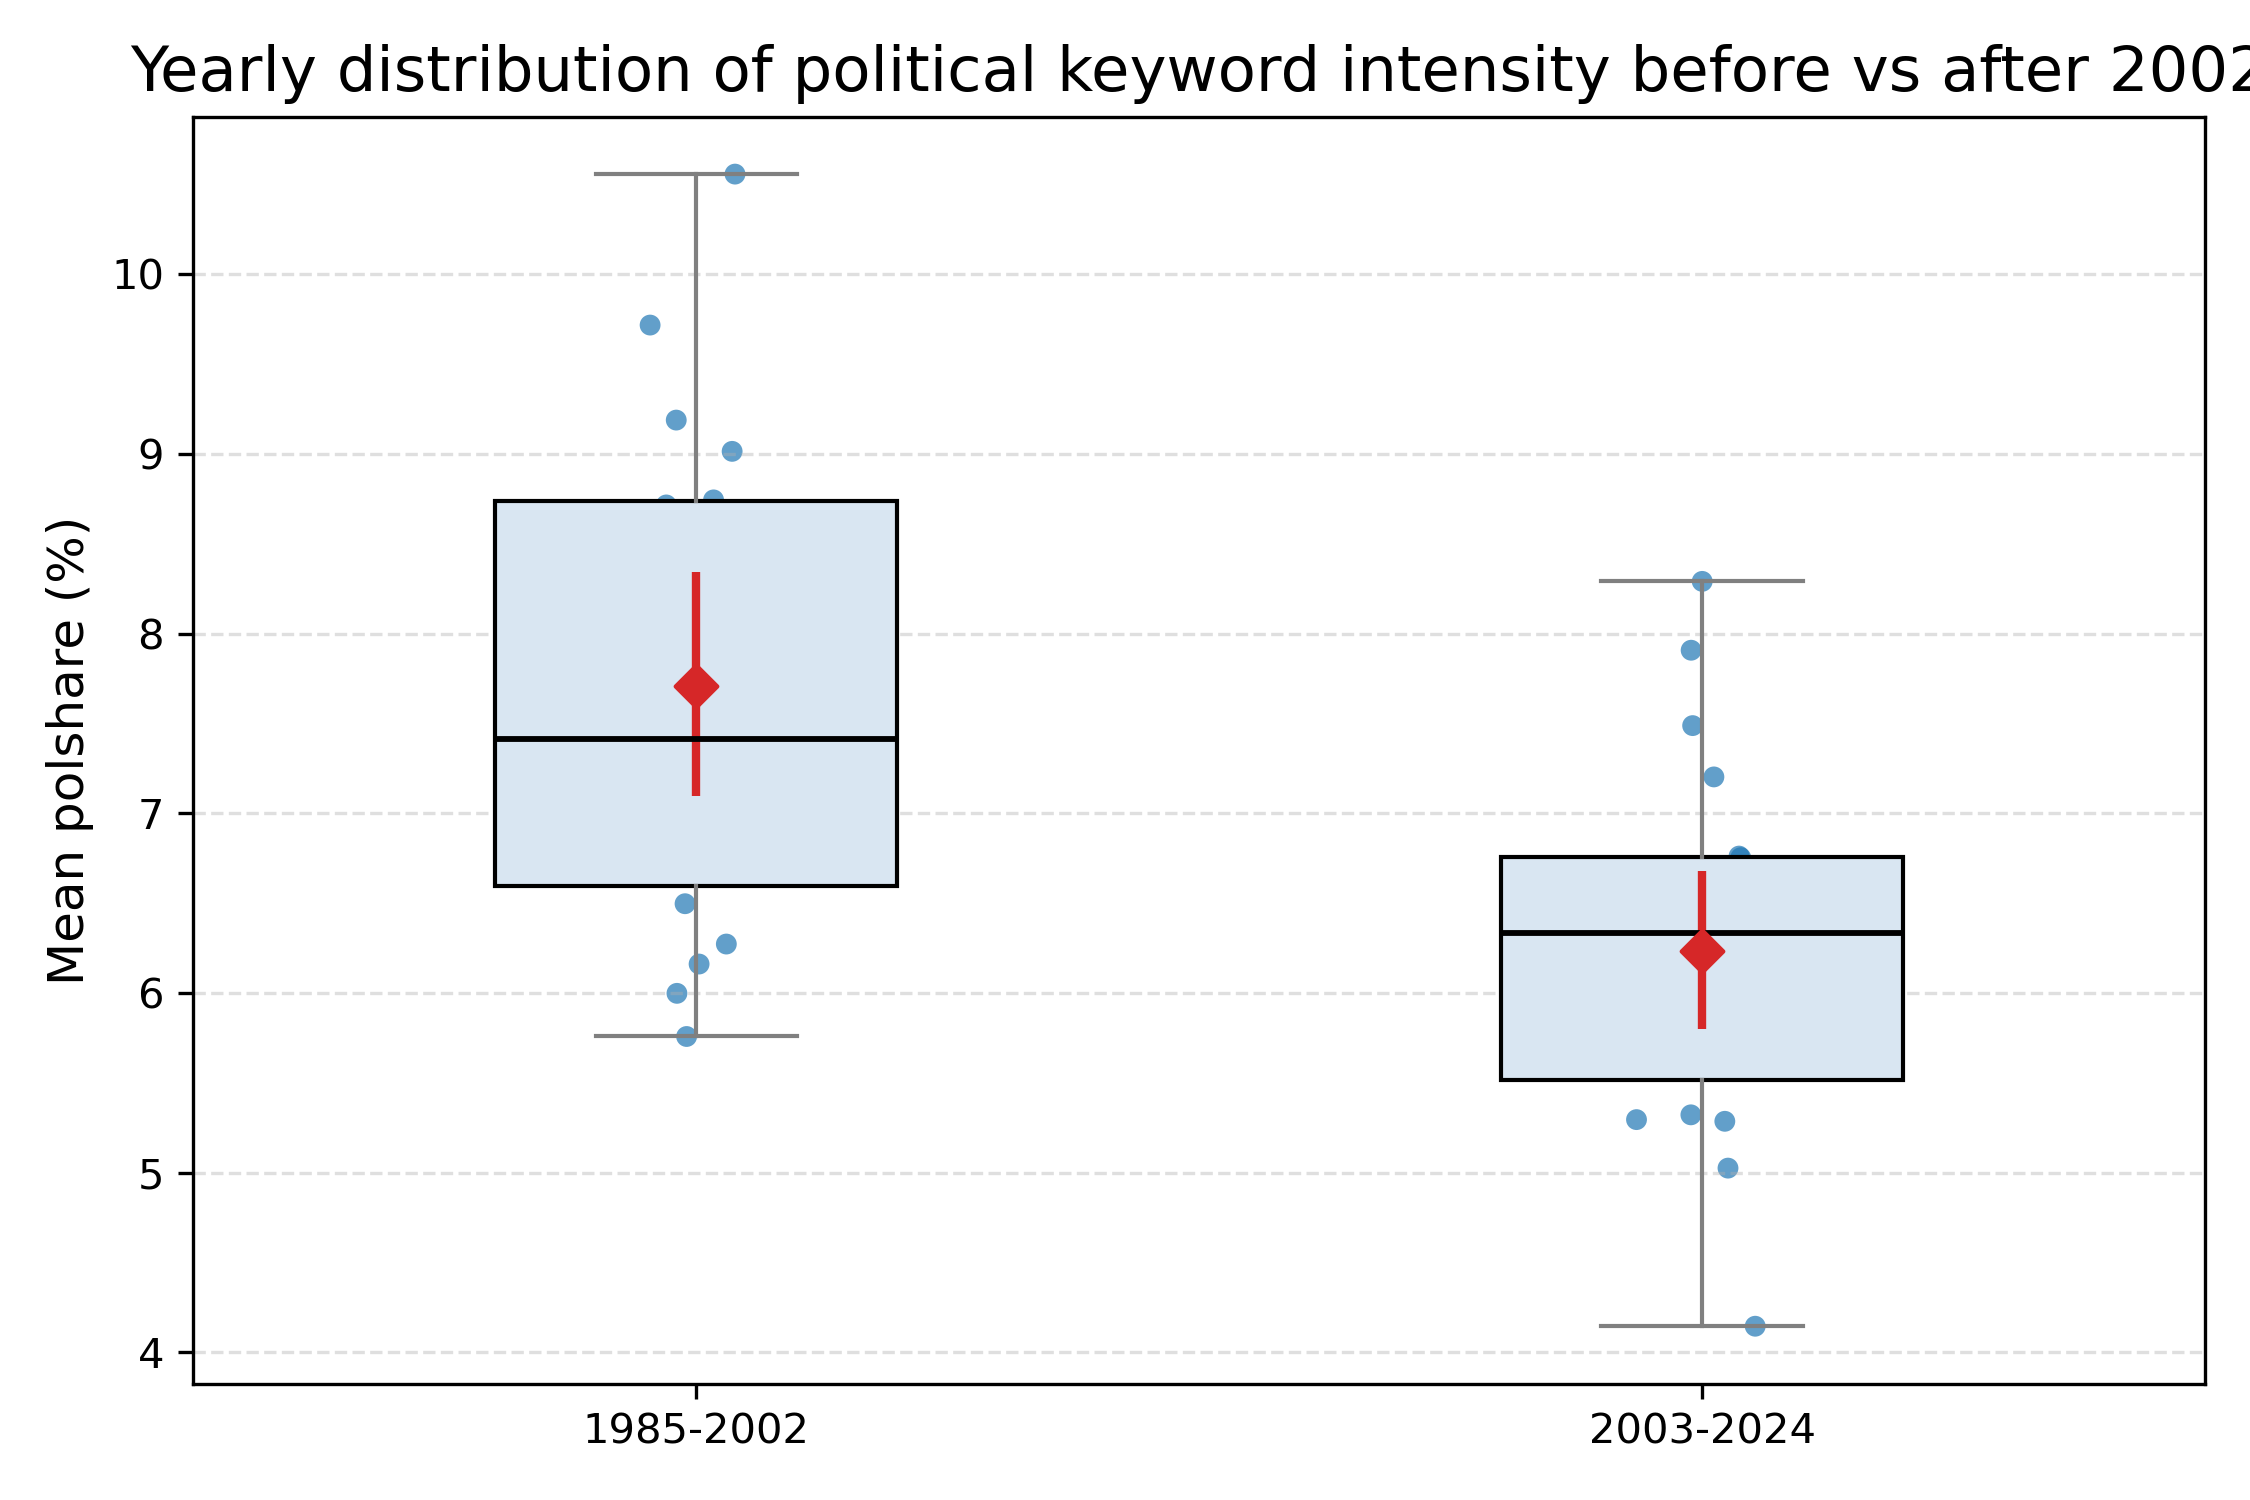
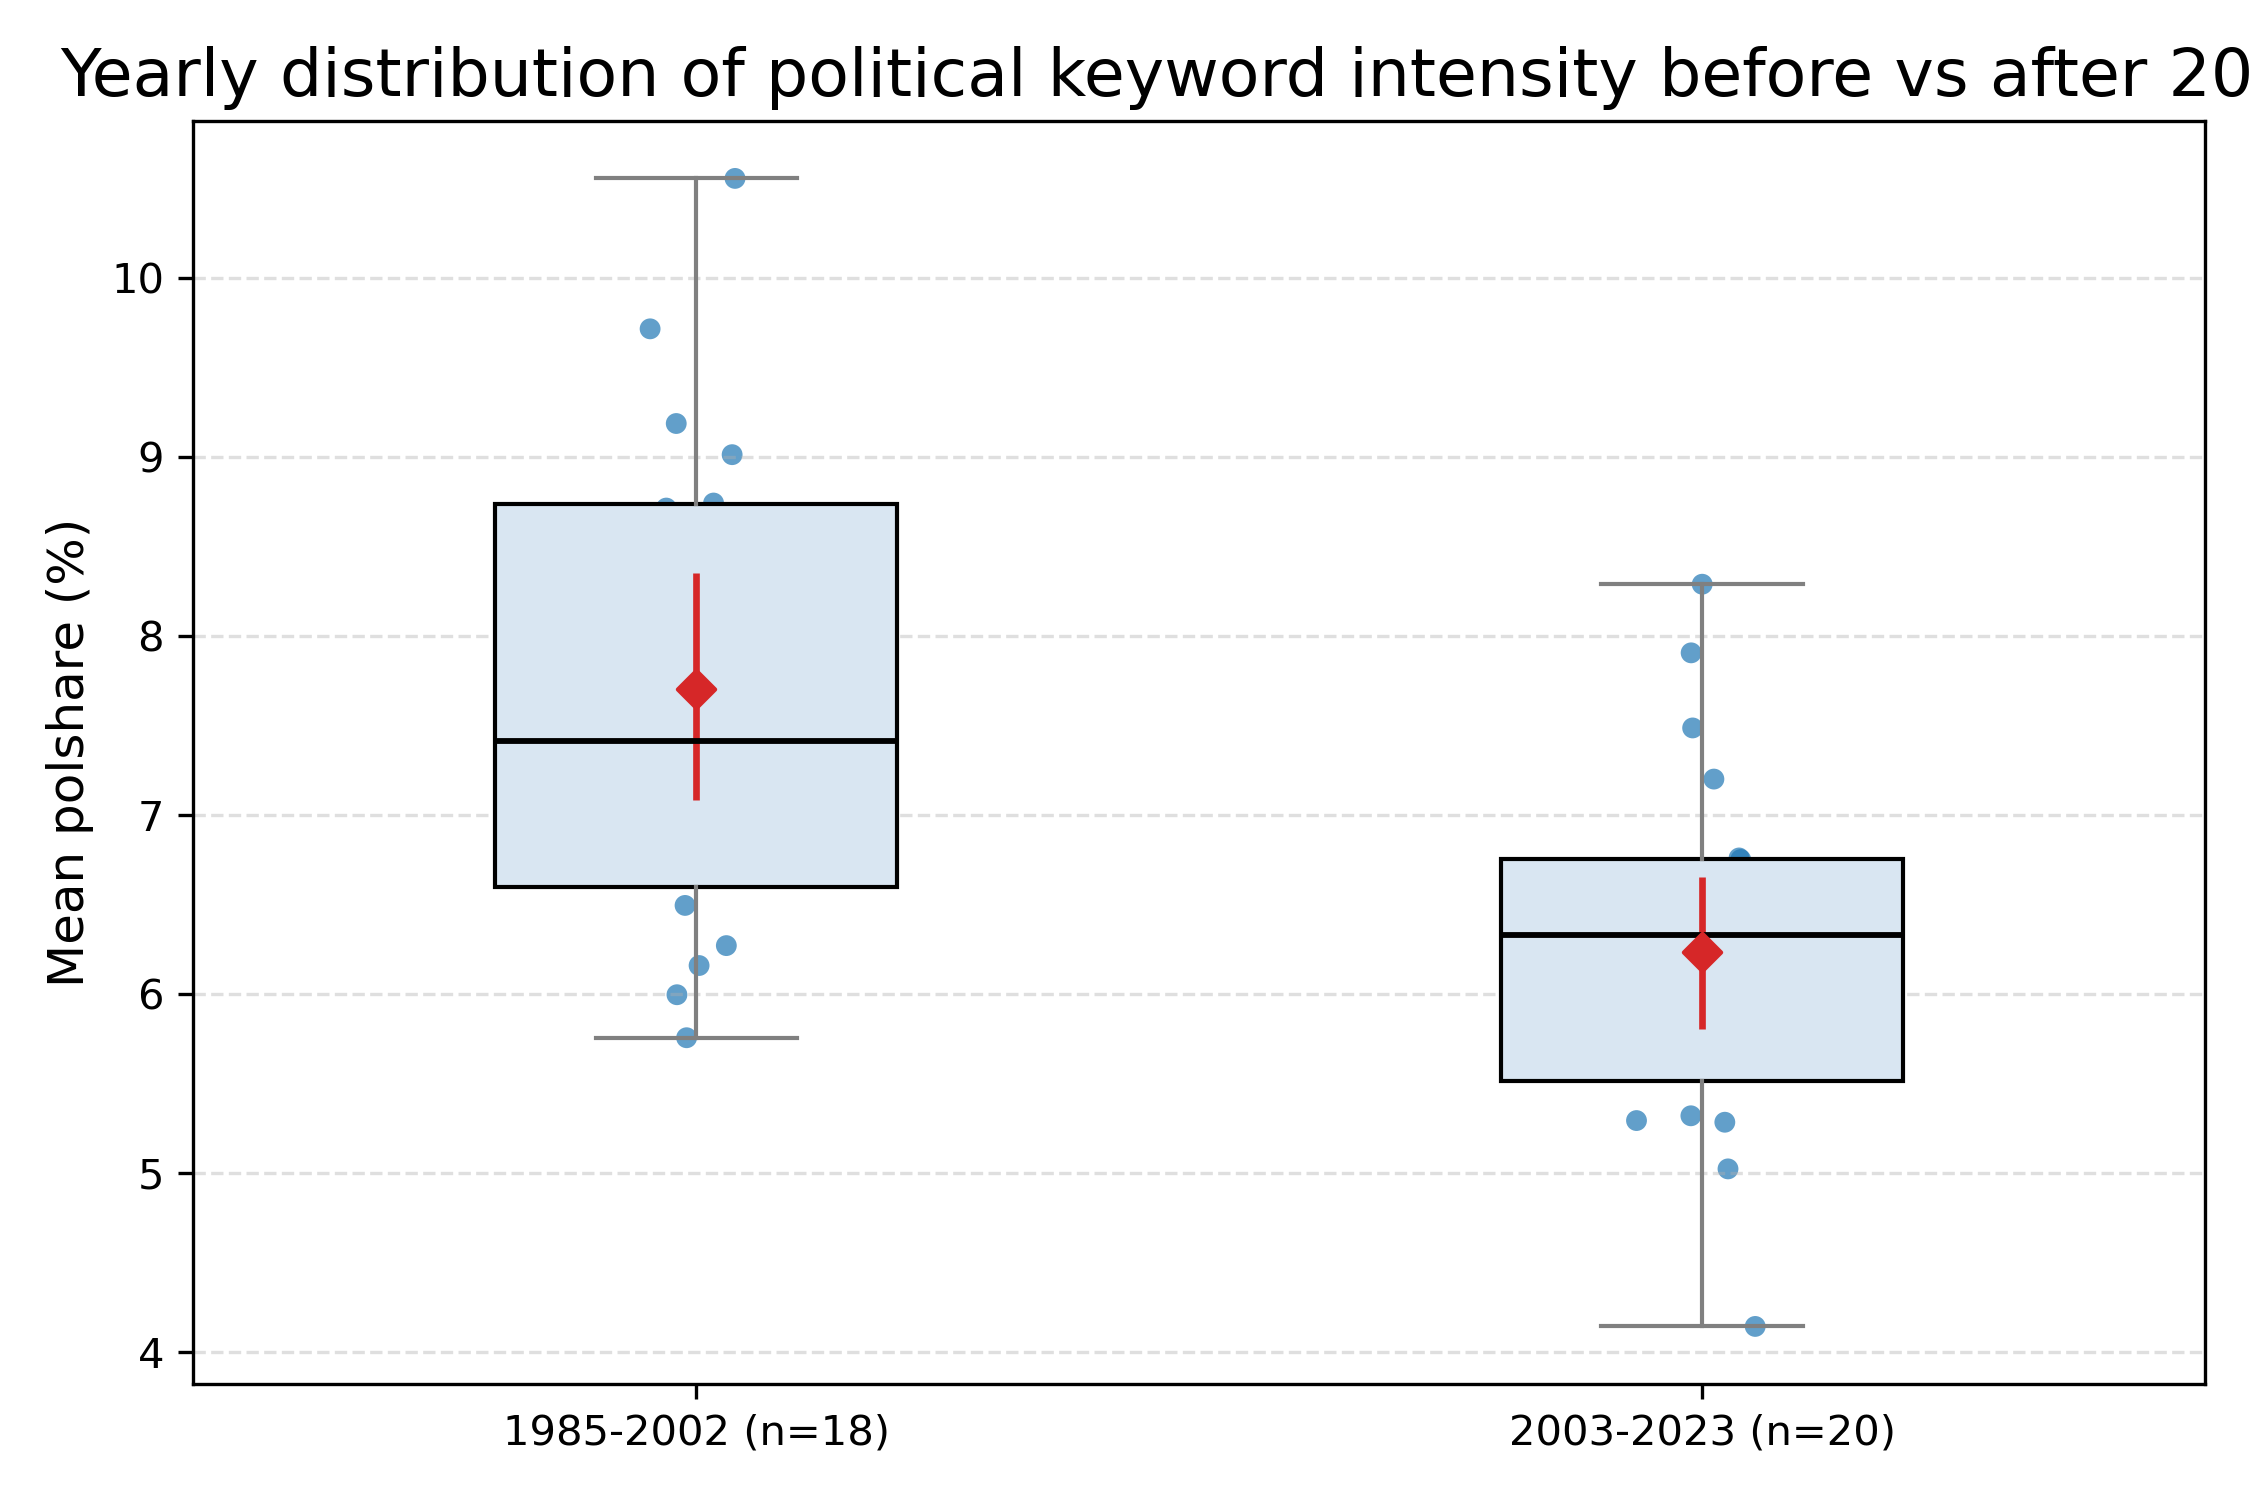
Polish break plots: dynamic year labels and sample annotations

diff --git a/scripts/make_break_plots.py b/scripts/make_break_plots.py
@@ -33,7 +33,7 @@ DEFAULT_OVERVIEW = BASE_DIR / "outputs_us_market_mojo_clean_boxoffice" / "plots_
 BREAK_DIR = BASE_DIR / "outputs_us_market_mojo_clean_boxoffice" / "plots_overview" / "break_plots"
 
 PRE_START, PRE_END = 1985, 2002
-POST_START, POST_END = 2003, 2024
+POST_START, POST_END_DEFAULT = 2003, 2024
 
 
 def find_overview() -> Path:
@@ -94,11 +94,24 @@ def bootstrap_ci(vals: np.ndarray, n_boot: int = 10000, alpha: float = 0.05) -> 
 
 def split_periods(df: pd.DataFrame, value_col: str):
     pre = df[(df["year"] >= PRE_START) & (df["year"] <= PRE_END)][["year", value_col]]
-    post = df[(df["year"] >= POST_START) & (df["year"] <= POST_END)][["year", value_col]]
+    # post_end is dynamic and set in main via a global; default to POST_END_DEFAULT for safety
+    post_end = globals().get("POST_END_RUNTIME", POST_END_DEFAULT)
+    post = df[(df["year"] >= POST_START) & (df["year"] <= post_end)][["year", value_col]]
     return pre, post
 
 
-def plot_timeseries_with_means(df: pd.DataFrame, value_col: str, ylabel: str, title: str, subtitle: str, outpath: Path):
+def plot_timeseries_with_means(
+    df: pd.DataFrame,
+    value_col: str,
+    ylabel: str,
+    title: str,
+    subtitle: str,
+    pre_label: str,
+    post_label: str,
+    n_pre: int,
+    n_post: int,
+    outpath: Path,
+):
     pre, post = split_periods(df, value_col)
     y_pct = df[value_col] * 100.0
     fig, ax = plt.subplots(figsize=(11, 5.2))
@@ -108,8 +121,8 @@ def plot_timeseries_with_means(df: pd.DataFrame, value_col: str, ylabel: str, ti
     pre_mean = pre[value_col].mean() * 100.0 if not pre.empty else np.nan
     post_mean = post[value_col].mean() * 100.0 if not post.empty else np.nan
 
-    ax.axhline(pre_mean, color="#ff7f0e", linestyle="-", linewidth=1.4, label=f"Mean {PRE_START}-{PRE_END}")
-    ax.axhline(post_mean, color="#2ca02c", linestyle="-", linewidth=1.4, label=f"Mean {POST_START}-{POST_END}")
+    ax.axhline(pre_mean, color="#ff7f0e", linestyle="-", linewidth=1.4, label=f"Mean {pre_label}")
+    ax.axhline(post_mean, color="#2ca02c", linestyle="-", linewidth=1.4, label=f"Mean {post_label}")
 
     ax.set_title(title, fontsize=15)
     ax.set_xlabel("Year", fontsize=12)
@@ -117,16 +130,32 @@ def plot_timeseries_with_means(df: pd.DataFrame, value_col: str, ylabel: str, ti
     ax.set_xticks(np.arange(df["year"].min(), df["year"].max() + 1, 5))
     ax.grid(True, linestyle="--", alpha=0.4)
     ax.legend(fontsize=10, frameon=False)
-    ax.text(0.99, -0.18, subtitle, transform=ax.transAxes, ha="right", va="top", fontsize=9, color="dimgray")
+    sub = subtitle
+    sub_extra = f"Pre: n={n_pre}, Post: n={n_post}; 2020 excluded."
+    if sub:
+        sub = f"{sub} | {sub_extra}"
+    else:
+        sub = sub_extra
+    ax.text(0.99, -0.18, sub, transform=ax.transAxes, ha="right", va="top", fontsize=10, color="dimgray")
     fig.tight_layout()
     fig.savefig(outpath, dpi=300)
     plt.close(fig)
 
 
-def plot_distribution(pre: pd.Series, post: pd.Series, ylabel: str, title: str, outpath: Path):
+def plot_distribution(
+    pre: pd.Series,
+    post: pd.Series,
+    ylabel: str,
+    title: str,
+    pre_label: str,
+    post_label: str,
+    n_pre: int,
+    n_post: int,
+    outpath: Path,
+):
     fig, ax = plt.subplots(figsize=(7.5, 5))
     data = [pre * 100.0, post * 100.0]
-    labels = [f"{PRE_START}-{PRE_END}", f"{POST_START}-{POST_END}"]
+    labels = [f"{pre_label} (n={n_pre})", f"{post_label} (n={n_post})"]
     positions = [0, 1]
 
     bp = ax.boxplot(
@@ -156,13 +185,13 @@ def plot_distribution(pre: pd.Series, post: pd.Series, ylabel: str, title: str, 
         low, high = bootstrap_ci(np.array(vals), n_boot=10000)
         low *= 100.0 / 100.0  # noop for clarity
         high *= 100.0 / 100.0
-        ax.scatter(pos, mean_val, color="#d62728", marker="D", s=50, zorder=4, label=None)
-        ax.vlines(pos, low, high, colors="#d62728", linewidth=2)
+        ax.scatter(pos, mean_val, color="#d62728", marker="D", s=40, zorder=4, label=None)
+        ax.vlines(pos, low, high, colors="#d62728", linewidth=1.6)
 
     ax.set_xticks(positions)
     ax.set_xticklabels(labels)
     ax.set_ylabel(ylabel, fontsize=12)
-    ax.set_title(title, fontsize=15)
+    ax.set_title(title, fontsize=16)
     ax.grid(True, axis="y", linestyle="--", alpha=0.4)
     fig.tight_layout()
     fig.savefig(outpath, dpi=300)
@@ -193,14 +222,25 @@ def main():
         # Drop rows missing polshare
         df = df.dropna(subset=["polshare_frac"])
 
+        max_year = df["year"].max()
+        pre_end_runtime = min(PRE_END, max_year)
+        post_end_runtime = min(POST_END_DEFAULT, max_year)
+        # set global used in split_periods
+        globals()["POST_END_RUNTIME"] = post_end_runtime
+
         # Period splits
         pol_pre, pol_post = split_periods(df, "polshare_frac")
         print(
             f"Years available: {df['year'].min()}-{df['year'].max()} "
             f"(pre n={len(pol_pre)}, post n={len(pol_post)}, 2020 excluded)"
         )
+        print(f"Detected max_year={max_year}; using post period {POST_START}-{post_end_runtime}")
 
         BREAK_DIR.mkdir(parents=True, exist_ok=True)
+
+        pre_label = f"{PRE_START}-{pre_end_runtime}"
+        post_label = f"{POST_START}-{post_end_runtime}"
+        n_pre, n_post = len(pol_pre), len(pol_post)
 
         # Plot 1
         plot_timeseries_with_means(
@@ -209,6 +249,10 @@ def main():
             ylabel="Mean polshare (%)",
             title="Political keyword intensity (polshare) and post-2002 level shift",
             subtitle="Top-100 pooled per year; polshare = political keywords / total keywords (unique); 2020 excluded.",
+            pre_label=pre_label,
+            post_label=post_label,
+            n_pre=n_pre,
+            n_post=n_post,
             outpath=BREAK_DIR / "break_polshare_timeseries_with_regime_means.png",
         )
 
@@ -218,17 +262,26 @@ def main():
             pol_post["polshare_frac"].dropna(),
             ylabel="Mean polshare (%)",
             title="Yearly distribution of political keyword intensity before vs after 2002",
+            pre_label=pre_label,
+            post_label=post_label,
+            n_pre=n_pre,
+            n_post=n_post,
             outpath=BREAK_DIR / "break_polshare_distribution_pre_vs_post.png",
         )
 
         # Optional prevalence timeseries
         if prev_col:
+            prev_pre, prev_post = split_periods(df.dropna(subset=["prevalence_frac"]), "prevalence_frac")
             plot_timeseries_with_means(
                 df.dropna(subset=["prevalence_frac"]),
                 value_col="prevalence_frac",
                 ylabel="Prevalence of ≥1 political keyword (%)",
                 title="Prevalence of political keywords and post-2002 level shift",
                 subtitle="Top-100 pooled per year; 2020 excluded.",
+                pre_label=pre_label,
+                post_label=post_label,
+                n_pre=len(prev_pre),
+                n_post=len(prev_post),
                 outpath=BREAK_DIR / "break_prevalence_timeseries_with_regime_means.png",
             )
 
@@ -240,6 +293,10 @@ def main():
                 ylabel="Mean total keywords (unique)",
                 title="Total keyword volume and post-2002 shift",
                 subtitle="Top-100 pooled per year; 2020 excluded.",
+                pre_label=pre_label,
+                post_label=post_label,
+                n_pre=n_pre,
+                n_post=n_post,
                 outpath=BREAK_DIR / "break_totalkw_timeseries_with_regime_means.png",
             )
 
